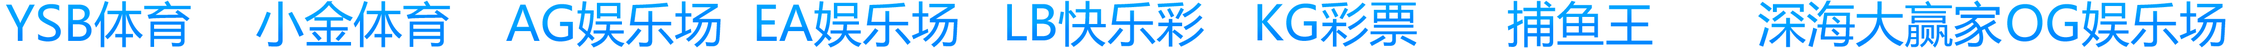
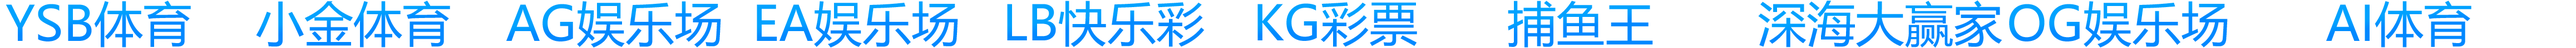
新增ai體育

diff --git a/src/components/SubPage/sports.vue b/src/components/SubPage/sports.vue
@@ -105,6 +105,10 @@ export default {
       // nsp.zxyl2013.org
       navBtn: [
         {
+          cnmae: 'AI体育',
+          ename: 'ai'
+        },
+        {
           cnmae: '小金体育',
           ename: 'nsp'
         },
@@ -114,6 +118,12 @@ export default {
         }
       ],
       gameInfo: [
+        {
+          em: 'Online',
+          span: '国际米兰俱乐部官方合作伙伴',
+          point: 'ai',
+          btn: ['立即游戏']
+        },
         {
           em: 'Online',
           span: '小金体育投注，每月拥有上万场赛事',
@@ -164,6 +174,10 @@ export default {
                 this.gameUrl = this.nspUrlArr[rnd] + '/NSP.html?gurl=' + res.data.Result.substring(res.data.Result.indexOf('//') + 2)
               }
               // console.log(res.data.Result.substring(res.data.Result.indexOf('//') + 2))
+            } else if (plat === 'ai') {
+              if (res.data.Result.startsWith('http://') || res.data.Result.startsWith('https://')) {
+                window.open(res.data.Result, '_blank').focus()
+              }
             } else {
               this.gameUrl = res.data.Result
             }
@@ -273,6 +287,10 @@ export default {
 .game .game-bar .game-main .goods-img.ysb{
   background-position: -660px 0;
 }
+.game .game-bar .game-main .goods-img.ai{
+  background-position: -1342px 0;
+  width: 906px !important;
+}
 .game .game-bar .game-main .title-Cname{
   width: 450px;
   height: 88px;
@@ -281,6 +299,9 @@ export default {
   left: 0;
   background: url(../../assets/images/SubPage/game__title.png);
   animation: fadeInDown 1s  ease-in-out  forwards  alternate;
+}
+.game .game-bar .game-main .title-Cname.ai{
+  background-position: -4170px 0;
 }
 .game .game-bar .game-main .title-Cname.nsp{
   background-position: -450px 0;

diff --git a/src/components/Header/menubar.vue b/src/components/Header/menubar.vue
@@ -76,6 +76,13 @@ export default {
           scale_Span: '0.8%',
           game: [
             {
+              li_Name: 'ai',
+              li_H1: 'AI体育',
+              li_b: 'SPORTS',
+              li_p: '国际米兰俱乐部官方合作伙伴',
+              li_em: '立即投注'
+            },
+            {
               li_Name: 'nsp',
               li_H1: '小金体育',
               li_b: 'SPORTS',
@@ -272,6 +279,7 @@ export default {
             this.$parent.$parent.reload()
           }
           break
+        case 'ai':
         case 'nsp':
         case 'ysb':
           // if (this.$route.name !== 'Sports') {
@@ -570,10 +578,10 @@ export default {
 .box .game li {
   float: left;
 }
-.sp .box .game li,
 .lt .box .game li {
   width: 50%;
 }
+.sp .box .game li,
 .cs .box .game li {
   width: 33%;
 }
@@ -603,6 +611,13 @@ export default {
   color: #fca42c;
   font-weight: normal;
 }
+.menu .sp .box .game li .info p {
+  max-width: 148px;
+  height: 65px;
+  display: table-cell;
+  vertical-align: middle;
+  line-height: 23px;
+}
 .menu .box .game li .info p {
   font-size: 16px;
   color: #333;
@@ -620,6 +635,9 @@ export default {
 }
 .menu .sp .box .game li .info .img {
   background: url(../../assets/images/header/nav_game_model_sports.png);
+}
+.menu .sp .box .game li.ai .info .img {
+  background-position: -400px 0;
 }
 .menu .sp .box .game li.nsp .info .img {
   background-position: 0 0;

diff --git a/src/components/HomePage/gamebar.vue b/src/components/HomePage/gamebar.vue
@@ -125,7 +125,8 @@ export default {
           p1: '体育双平台',
           p2: '随时随地，不错过任何精彩赛事',
           btn: [
-            { cnName: '小金体育', enName: 'xj' },
+            { cnName: 'AI体育', enName: 'xj' },
+            { cnName: '小金体育', enName: 'ai' },
             {
               cnName: 'YSB体育',
               enName: 'ysb'
